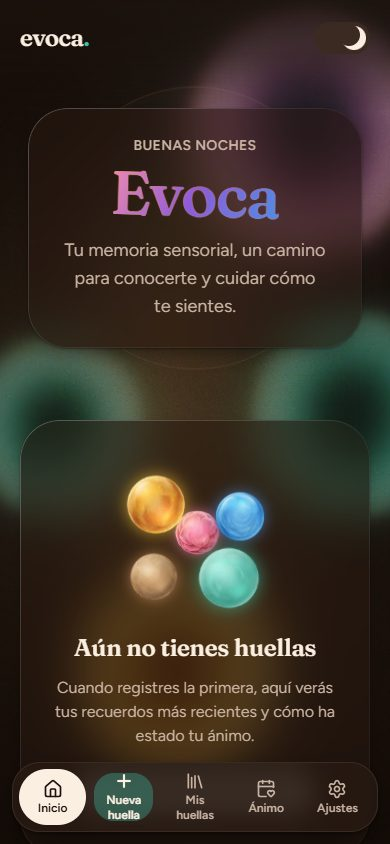
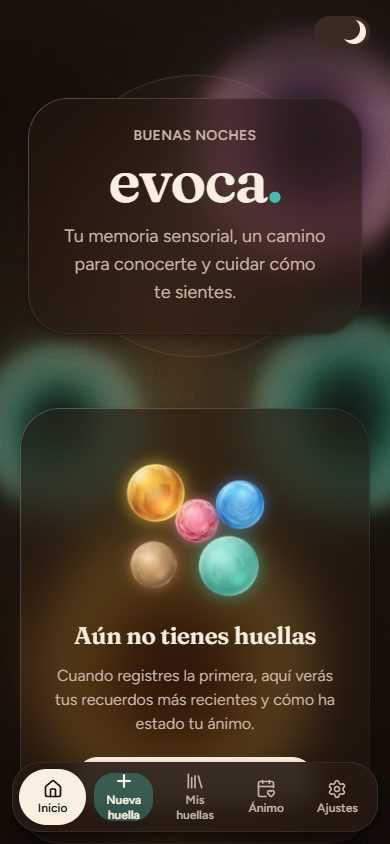
docs: actualizar legibilidad, contraste medido y capturas del fondo claro

diff --git a/docs/DISENO.md b/docs/DISENO.md
@@ -37,9 +37,8 @@ en producción.** La app usa versiones optimizadas que genera `npm run assets` (
   se ofrece primero y el MP4 queda de respaldo (`video(nombre, { webm: true })`).
 - Los posters son el primer fotograma de cada video (a 0,05 s): así el cambio de la imagen
   al video no se nota.
-- En modo claro el fondo se atenúa (opacidad 0,8) y se desvanece hacia el centro con una
-  máscara radial (`.evoca-bg-layer`): las manchas solo se notan en los bordes. Los anillos
-  del hero de Inicio solo aparecen en modo oscuro.
+- En modo claro el video suave se ve tal cual, sin atenuar (solo un leve tinte de la emoción
+  reciente arriba a la derecha). Los anillos del hero de Inicio aparecen en los dos modos.
 
 ### Cambiar una esfera
 
@@ -92,29 +91,30 @@ de los tokens de `frontend/src/styles/tokens.css`; no se derivan tokens de las i
 Los videos tienen zonas de color. Por eso:
 
 1. **Ningún texto va directamente sobre el video.** El contenido va en `GlassCard`: vidrio
-   translúcido (60 % de `--card` en claro, 55 % en oscuro) con `blur(20px) saturate(1.3)`. El
+   translúcido (64 % de `--card` en claro, 55 % en oscuro) con `blur(20px) saturate(1.3)`. El
    desenfoque fuerte borra el detalle del video que queda detrás; eso es lo que permite la
    transparencia sin perder contraste.
-2. Encima del video hay una capa de refuerzo: crema al 35 % en claro y marrón al 45 % en
-   oscuro (`.evoca-video-scrim`). Detrás del encabezado hay un degradado extra para el logo.
-3. **Contraste ≥ 4,5:1 contra el fondo renderizado** (3:1 para texto grande). Si algún punto
+2. En oscuro, encima del video hay una capa marrón al 45 % (`.evoca-video-scrim`) y un
+   degradado detrás del interruptor de tema. En claro no hay capa: el video se ve completo.
+3. El encabezado ya no lleva la marca: «evoca.» (`EvocaWordmark`) vive en el hero de Inicio,
+   con el color del texto del tema y el punto pasando por los colores de las emociones.
+4. **Contraste ≥ 4,5:1 contra el fondo renderizado** (3:1 para texto grande). Si algún punto
    del video lo baja, se sube la opacidad o el desenfoque de esa tarjeta; nunca se oscurece
    el texto.
-4. Cómo se mide: con Playwright se pausa el video en 3 momentos (15, 45 y 75 % del bucle),
+5. Cómo se mide: con Playwright se pausa el video en 3 momentos (15, 45 y 75 % del bucle),
    se registra cada texto visible, se vuelve transparente y se captura lo que queda detrás.
    Luego se compara el color del texto con esos píxeles (percentil 2, para ignorar bordes
-   sueltos). Se descarta el texto tapado (por ejemplo, por la barra inferior) y el punto del
-   logo, que es parte de la marca.
+   sueltos). Se descarta el texto tapado (por ejemplo, por la barra inferior).
 
 Peor contraste medido en Inicio (texto de cada tarjeta contra su fondo real, en los 3
 momentos):
 
-| Tema · tamaño | Tarjeta «Buenas noches» | Tarjeta «Aún no tienes huellas» | Tarjetas de pasos | Navegación | Encabezado |
-| --- | --- | --- | --- | --- | --- |
-| Claro · escritorio | 6,2:1 | 6,7:1 | 6,0:1 | 6,7:1 | 14,4:1 |
-| Claro · celular | 6,2:1 | 6,3:1 | 6,2:1 | 5,7:1 | 15,3:1 |
-| Oscuro · escritorio | 5,5:1 | 5,1:1 | 5,6:1 | 7,0:1 | 10,8:1 |
-| Oscuro · celular | 5,6:1 | 5,5:1 | 5,4:1 | 6,3:1 | 16,4:1 |
+| Tema · tamaño | Tarjeta «Buenas noches» | Tarjeta «Aún no tienes huellas» | Tarjetas de pasos | Navegación |
+| --- | --- | --- | --- | --- |
+| Claro · escritorio | 5,2:1 | 6,2:1 | 5,0:1 | 6,4:1 |
+| Claro · celular | 5,3:1 | 5,3:1 | 5,5:1 | 5,9:1 |
+| Oscuro · escritorio | 5,5:1 | 5,1:1 | 5,6:1 | 7,0:1 |
+| Oscuro · celular | 5,6:1 | 5,5:1 | 5,4:1 | 6,5:1 |
 
 Las demás pantallas (Ajustes, «Muy pronto», 404) siguen con tarjetas casi opacas
 (`bg-card/92`) y halo `bg-background/75` en los títulos. Pasarán a `GlassCard` cuando se
